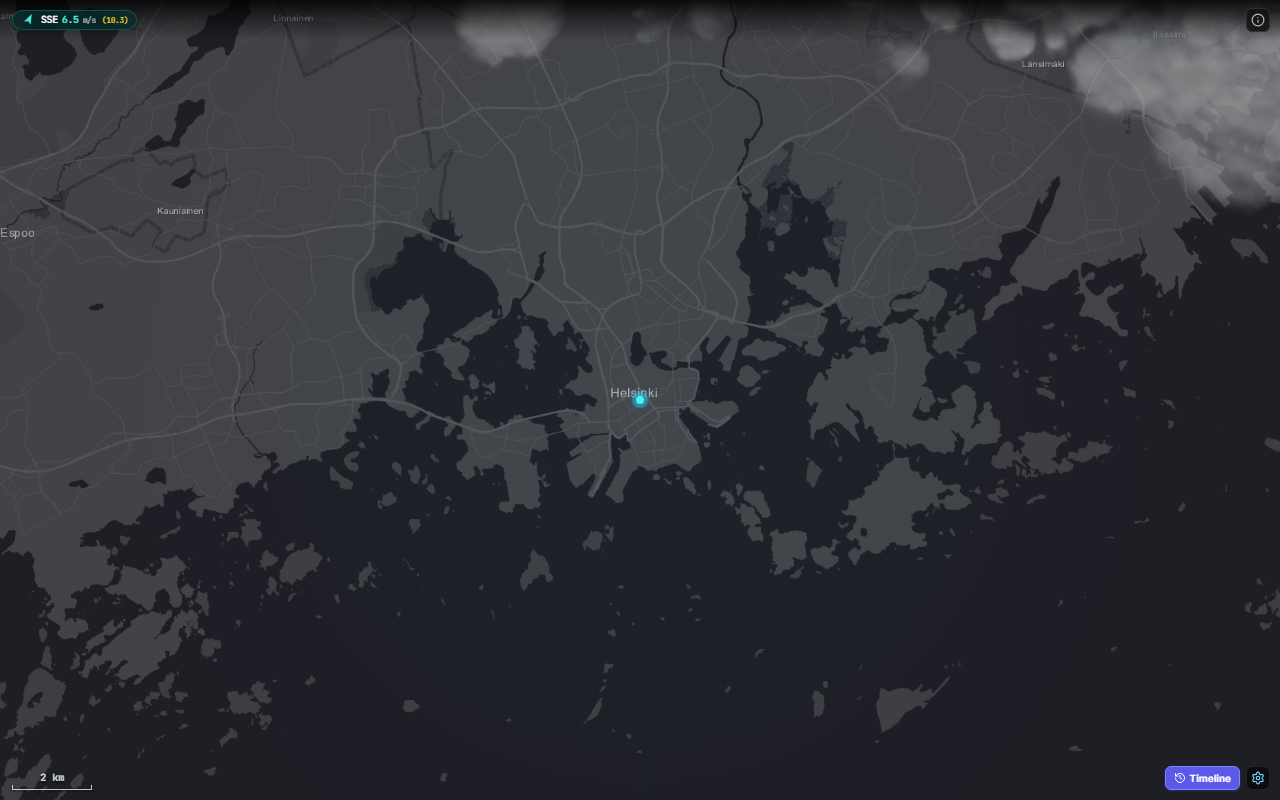
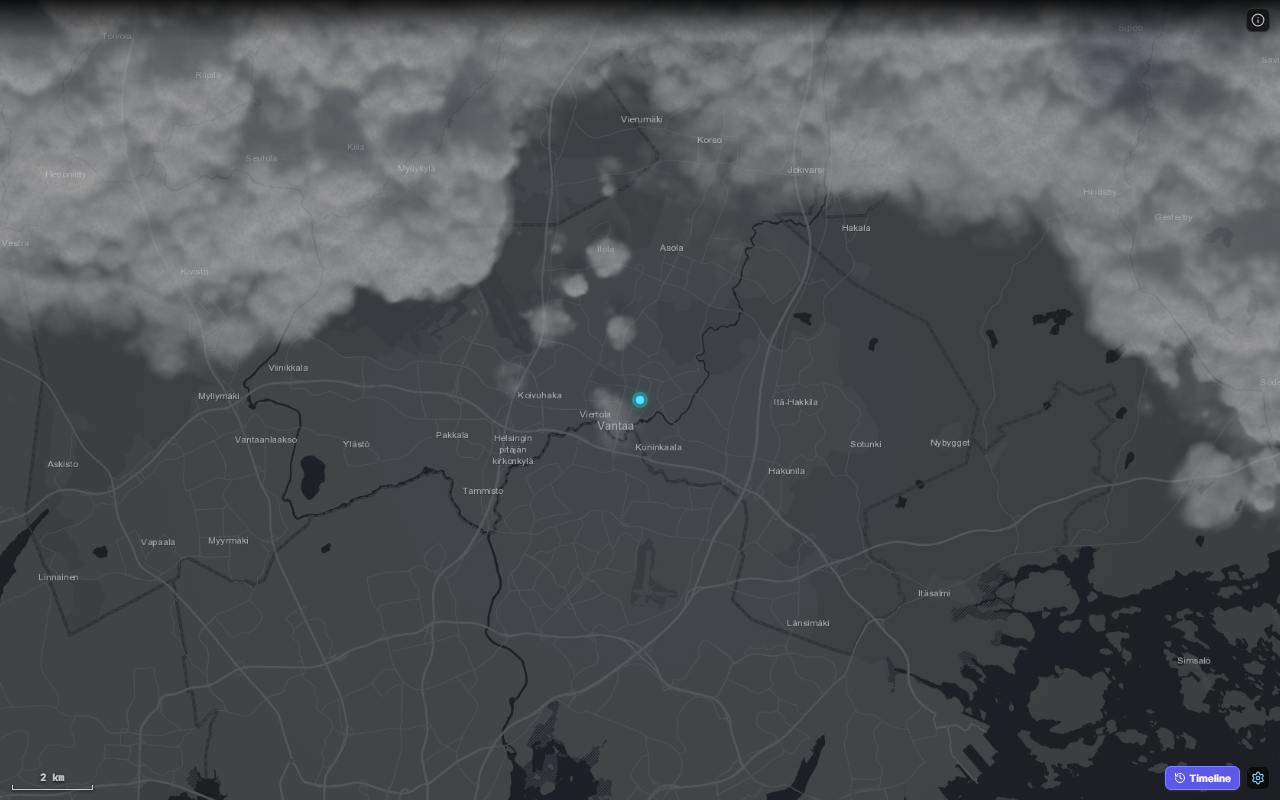
feat: type into fields before screenshots; show the weather map over Vantaa
The `clicks` option becomes `steps`, which also takes `{ type, into }` to
type into a field found by its label or placeholder. The field is cleared
with select-all and delete, as a controlled input may ignore fill(""), and
the typed value is checked. The weather map screenshot now searches for
Vantaa in the map settings before the shot.

diff --git a/scripts/screenshots.ts b/scripts/screenshots.ts
@@ -6,7 +6,7 @@
 // Each project in src/assets/MyProjects.ts is opened in headless Chromium and saved as
 // src/assets/projects/<slug>.png, where ProjectCard finds it by the project's name. Every site is shot with
 // the same viewport, scale, color scheme, locale and time zone so the screenshots look alike; per-project
-// tweaks (another url, clicks, a fake clock, phone frames, …) are in the project's `screenshot` field, see
+// tweaks (another url, clicks and typing, a fake clock, phone frames, …) are in the project's `screenshot` field, see
 // ProjectScreenshot.
 //
 // The images are committed, so building the site needs neither a browser nor the network.
@@ -15,7 +15,7 @@ import { mkdir } from "node:fs/promises"
 import { fileURLToPath } from "node:url"
 import { type BrowserContext, type BrowserContextOptions, chromium, devices, type Page } from "playwright"
 import { MY_PROJECTS } from "@/assets/MyProjects"
-import type { PetProject } from "@/types/PetProject"
+import type { PetProject, ScreenshotStep } from "@/types/PetProject"
 import { slug } from "@/utils/slug"
 
 const OUT_DIR = new URL("../src/assets/projects/", import.meta.url)
@@ -82,7 +82,7 @@ function withProjectPage<T>(context: BrowserContext, project: PetProject, use: (
             await page.waitForLoadState("networkidle", { timeout: 10_000 }).catch(() => {})
         }
 
-        await clickThrough(page, screenshot.clicks ?? [])
+        await runSteps(page, screenshot.steps ?? [])
         await page.waitForTimeout(screenshot.delayMs ?? DEFAULT_DELAY_MS)
         return use(page)
     })
@@ -97,13 +97,27 @@ async function withPage<T>(context: BrowserContext, use: (page: Page) => Promise
     }
 }
 
-async function clickThrough(page: Page, texts: string[]): Promise<void> {
-    for (const text of texts) {
-        // a button by its accessible name, or anything else (e.g. a radio label) by its exact text
-        const target = page.getByRole("button", { name: text }).or(page.getByText(text, { exact: true })).first()
-        await target.waitFor({ state: "visible", timeout: 10_000 })
-        // force: animated pages (e.g. a live map) never count as "stable" for Playwright
-        await target.click({ force: true })
+async function runSteps(page: Page, steps: ScreenshotStep[]): Promise<void> {
+    for (const step of steps) {
+        if (typeof step === "string") {
+            // a button by its accessible name, or anything else (e.g. a radio label) by its exact text
+            const target = page.getByRole("button", { name: step }).or(page.getByText(step, { exact: true })).first()
+            // generous: e.g. search suggestions wait for a server round trip
+            await target.waitFor({ state: "visible", timeout: 15_000 })
+            // force: animated pages (e.g. a live map) never count as "stable" for Playwright
+            await target.click({ force: true })
+        } else {
+            const field = page.getByLabel(step.into).or(page.getByPlaceholder(step.into)).first()
+            // clear it the way a user would: a controlled input may ignore a programmatic fill(""), and the
+            // typed text would then be appended ("HelsinkiVantaa")
+            await field.click({ force: true })
+            await field.press("ControlOrMeta+A")
+            await field.press("Backspace")
+            // key by key, as search-as-you-type fields listen for key presses rather than value changes
+            await field.pressSequentially(step.type, { delay: 50 })
+            const value = await field.inputValue()
+            if (value !== step.type) throw new Error(`typed "${step.type}" into "${step.into}", but it reads "${value}"`)
+        }
         // let dialogs open and close
         await page.waitForTimeout(300)
     }

diff --git a/src/types/PetProject.ts b/src/types/PetProject.ts
@@ -21,11 +21,10 @@ export interface ProjectScreenshot {
     // for projects without a web page of their own
     url?: string
 
-    // buttons or options to click in order before the shot, by their accessible name or exact text,
-    // e.g. to close a welcome dialog or to pick settings
-    clicks?: string[]
+    // what to do on the page before the shot, in order, e.g. close a welcome dialog or pick settings
+    steps?: ScreenshotStep[]
 
-    // wait before the shot, after the page has loaded and the clicks are done, for animations, maps and
+    // wait before the shot, after the page has loaded and the steps are done, for animations, maps and
     // data fetching; 1500 ms by default
     delayMs?: number
 
@@ -42,6 +41,11 @@ export interface ProjectScreenshot {
     // the image is maintained by hand, the script leaves it alone
     manual?: boolean
 }
+
+// "Text": click the button with this accessible name, or else the element with exactly this text
+// (e.g. a radio label or a search suggestion); waits for it to appear first.
+// { type, into }: type text into the field with this label or placeholder, replacing what is there.
+export type ScreenshotStep = string | { type: string; into: string }
 
 export interface PhoneScreen {
     // points to tap before taking this screen, in CSS pixels of the 412×839 phone viewport; for apps drawn

diff --git a/src/assets/MyProjects.ts b/src/assets/MyProjects.ts
@@ -31,7 +31,7 @@ export const MY_PROJECTS: PetProject[] = [
         description: "Google Calendar-based family dashboard",
         yearStart: 2026,
         technologies: ["TypeScript", "React", "Vercel"],
-        screenshot: { clicks: ["Got it", "Minimize radar"], time: "15:00" },
+        screenshot: { steps: ["Got it", "Minimize radar"], time: "15:00" },
     },
     {
         name: "Weather clock",
@@ -46,7 +46,11 @@ export const MY_PROJECTS: PetProject[] = [
         description: "Weather map with pretty cloud visualization and a few hidden tricks",
         yearStart: 2026,
         technologies: ["TypeScript", "Vercel"],
-        screenshot: { clicks: ["Settings", "Sheer", "Noon", "Apply"], delayMs: 6000 },
+        screenshot: {
+            // Vantaa: the first suggestion is the city in Uusimaa
+            steps: ["Settings", { type: "Vantaa", into: "Search location" }, "Vantaa", "Sheer", "Noon", "Apply"],
+            delayMs: 6000,
+        },
     },
     {
         name: "lumikello.net",

diff --git a/README.md b/README.md
@@ -20,7 +20,7 @@ Every site is shot the same way (1280×800, dark color scheme, Helsinki time zon
 | Option        | Use                                                                                 |
 | ------------- | ----------------------------------------------------------------------------------- |
 | `url`         | Page to shoot instead of `href`; an image URL is shown on a plain page             |
-| `clicks`      | Buttons or options to click first, e.g. `["Got it"]` to close a welcome dialog     |
+| `steps`       | Clicks by text, e.g. `"Got it"` to close a welcome dialog, and `{ type, into }` to type into a field |
 | `delayMs`     | Wait before the shot, after loading and clicking (1500 ms by default)              |
 | `colorScheme` | `"light"` for a site that should not be shown dark                                 |
 | `time`        | Fake clock, e.g. `"15:00"`, for clocks and timelines                               |
